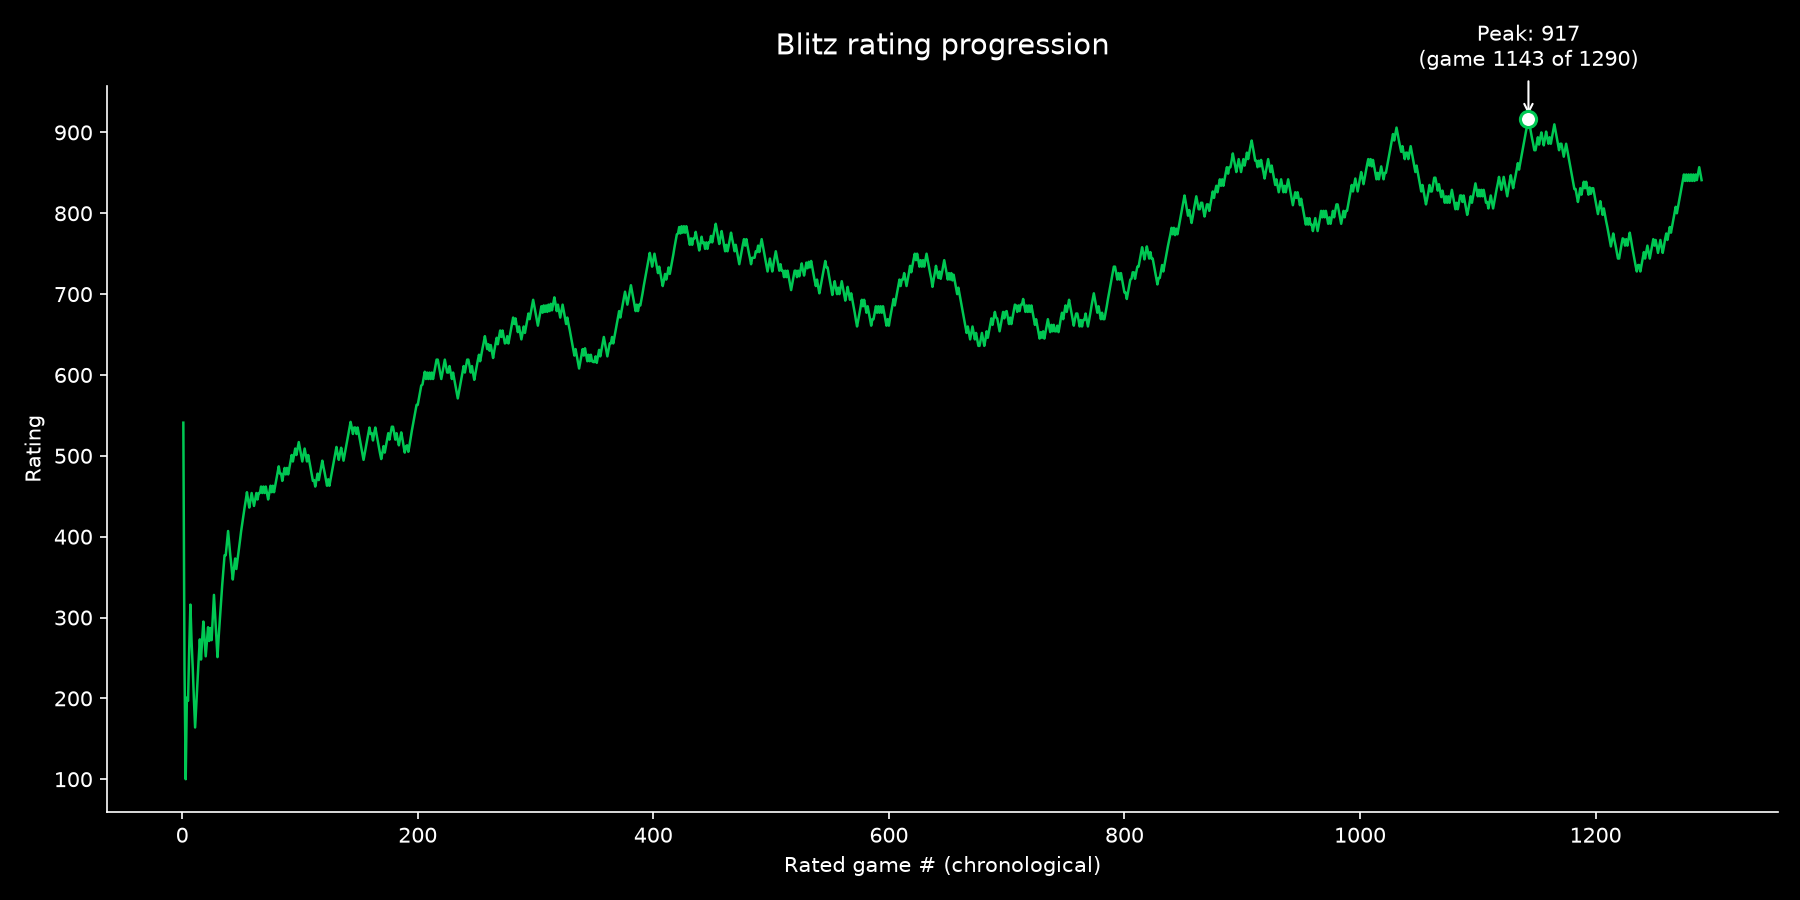
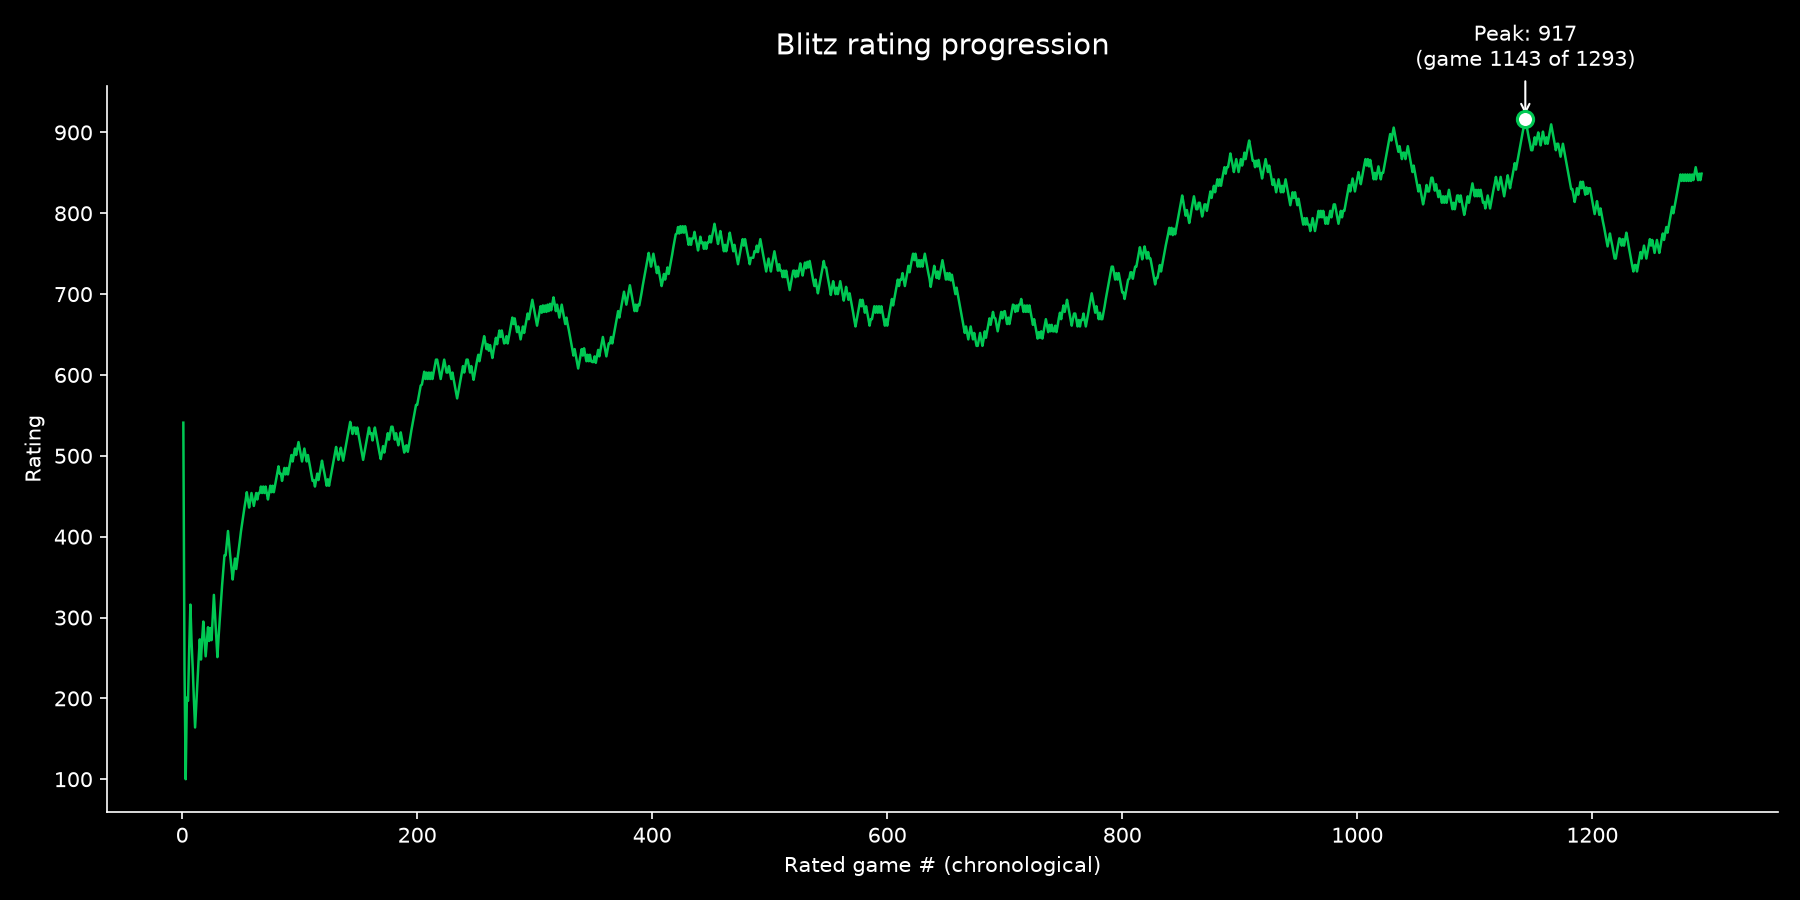
Auto-refresh chess stats 2026-11-02

diff --git a/README.md b/README.md
@@ -19,9 +19,9 @@ Built by Mirza Ramis Baig.
 The API: https://api.chess.com/pub/player/{username}/games/archives returns a list of monthly archive URLs, each returning full PGNs with clock times for clocked games.
 
 <!-- STATS:START -->
-### Last updated: 2026-11-01 13:35 UTC
+### Last updated: 2026-11-02 16:12 UTC
 
-**Dataset:** 2708 rated games, 2023-02-16 to 2026-11-01
+**Dataset:** 2711 rated games, 2023-02-16 to 2026-11-01
 
 **Statistically flagged countries this run** (Bonferroni-corrected within this run's test set —
 does *not* correct across repeated daily runs; see notes in `chess_analytics/stats.py`):
@@ -31,11 +31,11 @@ _No country crosses the Bonferroni-corrected significance threshold this run —
 **Session fatigue** (does performance decline the longer the player stays in one sitting? —
 sessions inferred from time gaps, see `chess_analytics/sessions.py`):
 
-Based on 1694 inferred sessions, 2708 games. Position-vs-performance correlation: ρ=-0.0277, p=0.1508 — not distinguishable from no trend. First game of session vs. later games: later games score worse by 0.032 on average, p=0.0773 — not distinguishable from noise. _Both tests use α=0.05 uncorrected for this specific comparison — treat a single borderline p-value as a lead to watch over time, not a confirmed effect, same caveat as the country analysis._
+Based on 1696 inferred sessions, 2711 games. Position-vs-performance correlation: ρ=-0.0284, p=0.141 — not distinguishable from no trend. First game of session vs. later games: later games score worse by 0.033 on average, p=0.0686 — not distinguishable from noise. _Both tests use α=0.05 uncorrected for this specific comparison — treat a single borderline p-value as a lead to watch over time, not a confirmed effect, same caveat as the country analysis._
 
 **Peak rating** (see `chess_analytics/milestones.py` — this is a moving target, updates as new games are added):
 
-- **Blitz**: peak rating **917**, reached after 1143 of 1290 rated games, on 2026-10-06 — the account has since come back down from it
+- **Blitz**: peak rating **917**, reached after 1143 of 1293 rated games, on 2026-10-06 — the account has since come back down from it
 - **Rapid**: peak rating **986**, reached after 1171 of 1401 rated games, on 2026-04-16 — the account has since come back down from it
 
 
